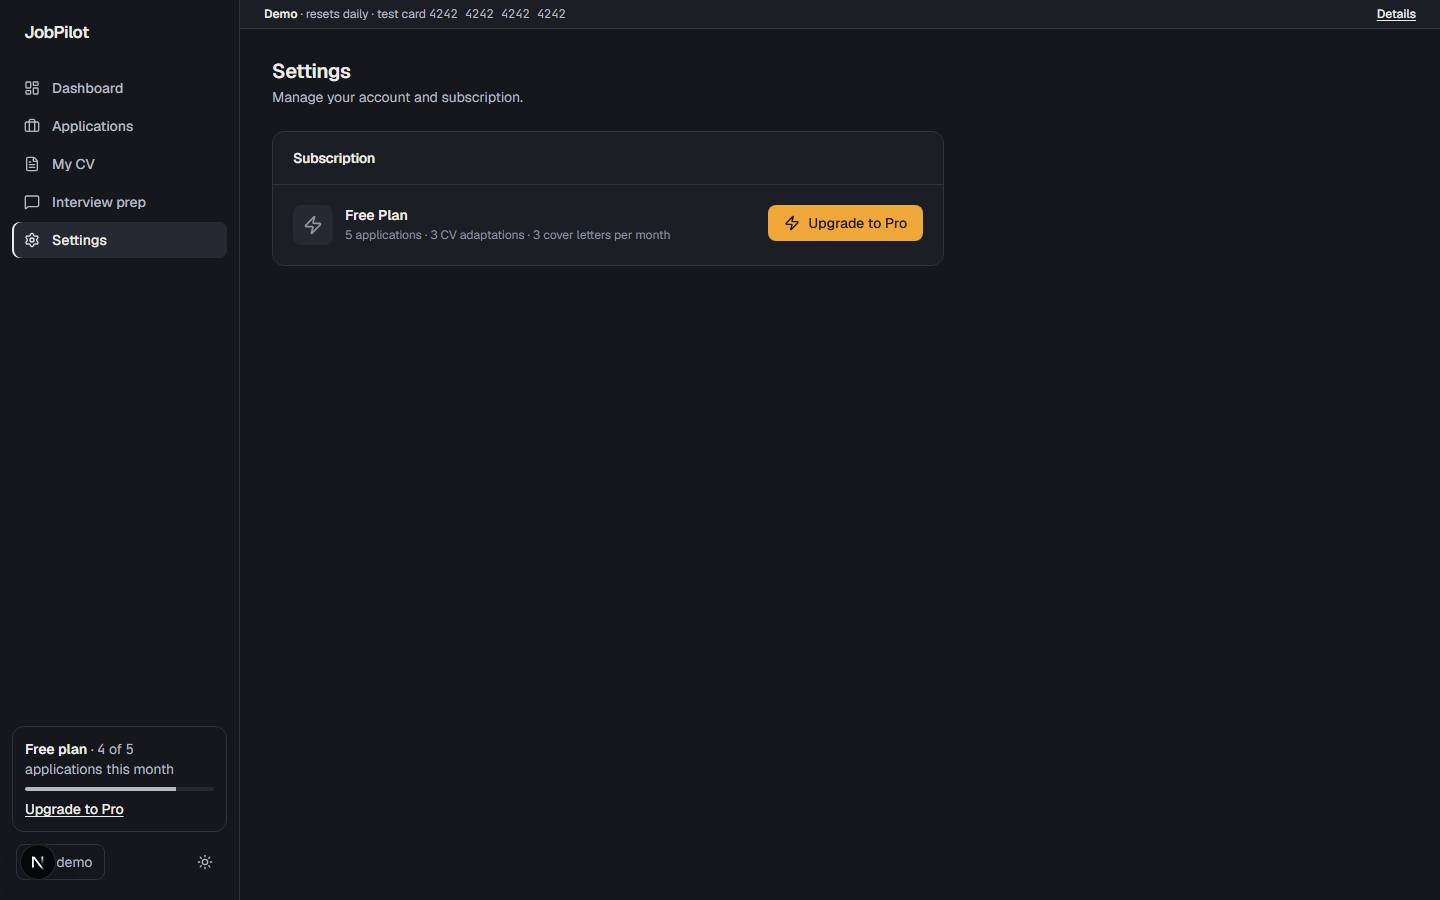
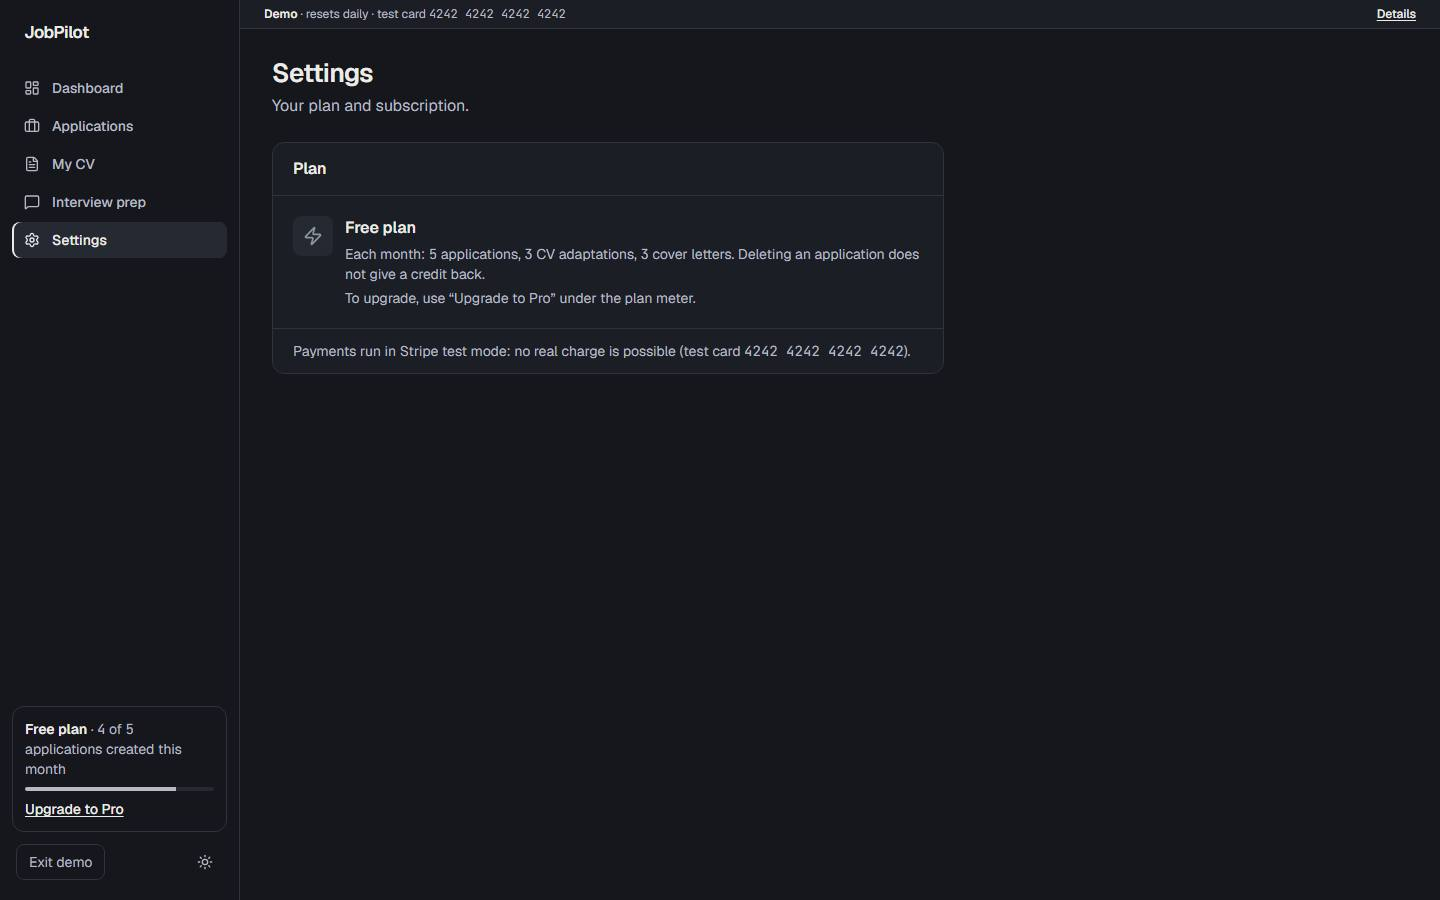
feat(design): settings and modals
Settings: the plan card says what the free plan includes and that deleting
an application gives no credit back; its own upgrade button is gone (the
plan meter stays the only upgrade call); "Payments run in Stripe test
mode" shows only while the Stripe key is a test key. Modals: token colours,
neutral "Auto-filled" badges.

diff --git a/src/components/applications/new-application-modal.tsx b/src/components/applications/new-application-modal.tsx
@@ -183,7 +183,7 @@ export function NewApplicationModal({
               value={offerText}
               onChange={e => setOfferText(e.target.value)}
               required
-              className="w-full h-40 field-sizing-fixed resize-none overflow-y-auto bg-[hsl(var(--bg-surface-raised))] border border-[hsl(var(--border-default))] text-[hsl(var(--text-primary))] placeholder:text-[hsl(var(--text-muted))] rounded-lg focus-visible:ring-1 focus-visible:ring-amber-500/60 focus-visible:border-[hsl(var(--border-default))]"
+              className="w-full h-40 field-sizing-fixed resize-none overflow-y-auto bg-[hsl(var(--bg-surface-raised))] border border-[hsl(var(--border-default))] text-[hsl(var(--text-primary))] placeholder:text-[hsl(var(--text-muted))] rounded-lg focus-visible:ring-1 focus-visible:ring-[hsl(var(--focus))] focus-visible:border-[hsl(var(--border-default))]"
             />
             <div className="mt-1.5 flex items-center gap-2">
               {detectedLang && (
@@ -216,14 +216,14 @@ export function NewApplicationModal({
                 value={company}
                 onChange={e => { setCompany(e.target.value); setAutoFilled(a => ({ ...a, company: false })) }}
                 required
-                className="bg-[hsl(var(--bg-surface-raised))] border border-[hsl(var(--border-default))] text-[hsl(var(--text-primary))] placeholder:text-[hsl(var(--text-muted))] rounded-lg focus-visible:ring-1 focus-visible:ring-amber-500/60 focus-visible:border-[hsl(var(--border-default))] pr-8"
+                className="bg-[hsl(var(--bg-surface-raised))] border border-[hsl(var(--border-default))] text-[hsl(var(--text-primary))] placeholder:text-[hsl(var(--text-muted))] rounded-lg focus-visible:ring-1 focus-visible:ring-[hsl(var(--focus))] focus-visible:border-[hsl(var(--border-default))] pr-8"
               />
               {parsing && !company && (
                 <Loader2 className="absolute right-2.5 top-1/2 -translate-y-1/2 h-3.5 w-3.5 animate-spin text-[hsl(var(--text-muted))]" />
               )}
               {autoFilled.company && company && (
-                <span className="absolute -top-1.5 right-1.5 text-[9px] font-semibold uppercase tracking-wide px-1 py-0.5 rounded bg-amber-500/20 text-amber-500 leading-none">
-                  Auto
+                <span className="absolute -top-1.5 right-1.5 text-[10px] font-medium px-1 py-0.5 rounded bg-[hsl(var(--bg-surface-raised))] text-[hsl(var(--text-secondary))] leading-none">
+                  Auto-filled
                 </span>
               )}
             </div>
@@ -235,14 +235,14 @@ export function NewApplicationModal({
                 value={role}
                 onChange={e => { setRole(e.target.value); setAutoFilled(a => ({ ...a, role: false })) }}
                 required
-                className="bg-[hsl(var(--bg-surface-raised))] border border-[hsl(var(--border-default))] text-[hsl(var(--text-primary))] placeholder:text-[hsl(var(--text-muted))] rounded-lg focus-visible:ring-1 focus-visible:ring-amber-500/60 focus-visible:border-[hsl(var(--border-default))] pr-8"
+                className="bg-[hsl(var(--bg-surface-raised))] border border-[hsl(var(--border-default))] text-[hsl(var(--text-primary))] placeholder:text-[hsl(var(--text-muted))] rounded-lg focus-visible:ring-1 focus-visible:ring-[hsl(var(--focus))] focus-visible:border-[hsl(var(--border-default))] pr-8"
               />
               {parsing && !role && (
                 <Loader2 className="absolute right-2.5 top-1/2 -translate-y-1/2 h-3.5 w-3.5 animate-spin text-[hsl(var(--text-muted))]" />
               )}
               {autoFilled.role && role && (
-                <span className="absolute -top-1.5 right-1.5 text-[9px] font-semibold uppercase tracking-wide px-1 py-0.5 rounded bg-amber-500/20 text-amber-500 leading-none">
-                  Auto
+                <span className="absolute -top-1.5 right-1.5 text-[10px] font-medium px-1 py-0.5 rounded bg-[hsl(var(--bg-surface-raised))] text-[hsl(var(--text-secondary))] leading-none">
+                  Auto-filled
                 </span>
               )}
             </div>
@@ -253,7 +253,7 @@ export function NewApplicationModal({
             value={link}
             onChange={e => setLink(e.target.value)}
             type="url"
-            className="bg-[hsl(var(--bg-surface-raised))] border border-[hsl(var(--border-default))] text-[hsl(var(--text-primary))] placeholder:text-[hsl(var(--text-muted))] rounded-lg focus-visible:ring-1 focus-visible:ring-amber-500/60 focus-visible:border-[hsl(var(--border-default))]"
+            className="bg-[hsl(var(--bg-surface-raised))] border border-[hsl(var(--border-default))] text-[hsl(var(--text-primary))] placeholder:text-[hsl(var(--text-muted))] rounded-lg focus-visible:ring-1 focus-visible:ring-[hsl(var(--focus))] focus-visible:border-[hsl(var(--border-default))]"
           />
 
           {/* Salary field */}
@@ -262,11 +262,11 @@ export function NewApplicationModal({
               placeholder="Salary (optional, e.g. $80k)"
               value={salary}
               onChange={e => { setSalary(e.target.value); setAutoFilled(a => ({ ...a, salary: false })) }}
-              className="bg-[hsl(var(--bg-surface-raised))] border border-[hsl(var(--border-default))] text-[hsl(var(--text-primary))] placeholder:text-[hsl(var(--text-muted))] rounded-lg focus-visible:ring-1 focus-visible:ring-amber-500/60 focus-visible:border-[hsl(var(--border-default))] pr-8"
+              className="bg-[hsl(var(--bg-surface-raised))] border border-[hsl(var(--border-default))] text-[hsl(var(--text-primary))] placeholder:text-[hsl(var(--text-muted))] rounded-lg focus-visible:ring-1 focus-visible:ring-[hsl(var(--focus))] focus-visible:border-[hsl(var(--border-default))] pr-8"
             />
             {autoFilled.salary && salary && (
-              <span className="absolute -top-1.5 right-1.5 text-[9px] font-semibold uppercase tracking-wide px-1 py-0.5 rounded bg-amber-500/20 text-amber-500 leading-none">
-                Auto
+              <span className="absolute -top-1.5 right-1.5 text-[10px] font-medium px-1 py-0.5 rounded bg-[hsl(var(--bg-surface-raised))] text-[hsl(var(--text-secondary))] leading-none">
+                Auto-filled
               </span>
             )}
           </div>
@@ -289,7 +289,7 @@ export function NewApplicationModal({
             <Button
               type="submit"
               disabled={loading}
-              className="rounded-lg bg-amber-500 text-black hover:bg-amber-400 font-medium"
+              className="rounded-lg bg-[hsl(var(--accent-primary))] text-[hsl(var(--accent-on))] hover:bg-[hsl(var(--accent-hover))] font-medium"
             >
               {loading ? 'Creating...' : 'Create Application'}
             </Button>

diff --git a/src/app/(app)/settings/page.tsx b/src/app/(app)/settings/page.tsx
@@ -1,89 +1,88 @@
 import type { Metadata } from 'next'
-import { getActor } from '@/lib/actor'
 import { redirect } from 'next/navigation'
-import { Zap, Crown, CreditCard } from 'lucide-react'
+import { CreditCard, Crown, Zap } from 'lucide-react'
+import { getActor } from '@/lib/actor'
+import { billing } from '@/lib/billing'
+import { FREE_TIER_LIMITS } from '@/lib/config'
+import { prisma } from '@/lib/prisma'
+import { ManageSubscriptionButton } from '@/components/manage-subscription-button'
 
 export const metadata: Metadata = {
   title: 'Settings',
 }
-import { prisma } from '@/lib/prisma'
-import { UpgradeButton } from '@/components/upgrade-button'
-import { ManageSubscriptionButton } from '@/components/manage-subscription-button'
 
 export default async function SettingsPage() {
   const actor = await getActor()
   if (!actor) redirect('/sign-in')
-  const userId = actor.id
 
   const dbUser = await prisma.user.findUnique({
-    where: { id: userId },
-    select: { plan: true, email: true, stripeCustomerId: true },
+    where: { id: actor.id },
+    select: { plan: true },
   })
-
-  const plan = dbUser?.plan ?? 'FREE'
-  const isPro = plan === 'PRO'
+  const isPro = dbUser?.plan === 'PRO'
+  // Said only when it is true: with live keys this line disappears.
+  const testMode = billing.isTestMode()
 
   return (
-    <div className="flex flex-col gap-6 max-w-2xl">
+    <div className="flex max-w-2xl flex-col gap-6">
       <div>
-        <h1 className="text-xl font-semibold text-[hsl(var(--text-primary))]">Settings</h1>
-        <p className="text-sm text-[hsl(var(--text-secondary))] mt-0.5">
-          Manage your account and subscription.
-        </p>
+        <h1 className="text-[26px] font-semibold leading-tight tracking-tight text-[hsl(var(--text-primary))]">Settings</h1>
+        <p className="mt-1 text-[hsl(var(--text-secondary))]">Your plan and subscription.</p>
       </div>
 
-      {/* Plan card */}
-      <div className="bg-[hsl(var(--bg-surface))] border border-[hsl(var(--border-default))] rounded-xl overflow-hidden">
-        <div className="px-5 py-4 border-b border-[hsl(var(--border-default))]">
-          <h2 className="text-sm font-semibold text-[hsl(var(--text-primary))]">Subscription</h2>
-        </div>
+      <section aria-labelledby="plan-title" className="overflow-hidden rounded-xl border border-[hsl(var(--border-default))] bg-[hsl(var(--bg-surface))]">
+        <h2 id="plan-title" className="border-b border-[hsl(var(--border-default))] px-5 py-3.5 text-base font-semibold text-[hsl(var(--text-primary))]">
+          Plan
+        </h2>
 
-        <div className="px-5 py-5 flex items-start justify-between gap-4">
+        <div className="flex flex-wrap items-start justify-between gap-4 px-5 py-5">
           <div className="flex items-start gap-3">
-            <div
-              className={`h-10 w-10 rounded-lg flex items-center justify-center shrink-0 ${
-                isPro ? 'bg-amber-500/20' : 'bg-[hsl(var(--bg-surface-raised))]'
-              }`}
-            >
+            <div className="flex h-10 w-10 shrink-0 items-center justify-center rounded-lg bg-[hsl(var(--bg-surface-raised))]">
               {isPro ? (
-                <Crown className="h-5 w-5 text-amber-500" />
+                <Crown className="h-5 w-5 text-[hsl(var(--text-primary))]" aria-hidden />
               ) : (
-                <Zap className="h-5 w-5 text-[hsl(var(--text-muted))]" />
+                <Zap className="h-5 w-5 text-[hsl(var(--text-muted))]" aria-hidden />
               )}
             </div>
-            <div>
-              <p className="text-sm font-semibold text-[hsl(var(--text-primary))]">
-                {isPro ? 'Pro Plan' : 'Free Plan'}
-              </p>
-              <p className="text-xs text-[hsl(var(--text-muted))] mt-0.5">
-                {isPro
-                  ? 'Unlimited applications, CV adaptations, and cover letters.'
-                  : '5 applications · 3 CV adaptations · 3 cover letters per month'}
-              </p>
+            <div className="grid gap-1">
+              <p className="font-semibold text-[hsl(var(--text-primary))]">{isPro ? 'Pro plan' : 'Free plan'}</p>
+              {isPro ? (
+                <p className="text-sm text-[hsl(var(--text-secondary))]">Unlimited applications, CV adaptations and cover letters.</p>
+              ) : (
+                <>
+                  <p className="text-sm text-[hsl(var(--text-secondary))]">
+                    Each month: <span className="num">{FREE_TIER_LIMITS.applications}</span> applications,{' '}
+                    <span className="num">{FREE_TIER_LIMITS.cvAdaptations}</span> CV adaptations,{' '}
+                    <span className="num">{FREE_TIER_LIMITS.coverLetters}</span> cover letters. Deleting an application does not give a credit back.
+                  </p>
+                  {/* The upgrade call itself stays in one place: the plan meter (sidebar, or "More" on mobile). */}
+                  <p className="text-sm text-[hsl(var(--text-secondary))]">To upgrade, use &ldquo;Upgrade to Pro&rdquo; under the plan meter.</p>
+                </>
+              )}
             </div>
           </div>
-
-          <div className="shrink-0">
-            {isPro ? (
+          {isPro ? (
+            <div className="shrink-0">
               <ManageSubscriptionButton />
-            ) : (
-              <UpgradeButton source="settings" className="w-auto px-4">
-                <Zap className="h-4 w-4" />
-                Upgrade to Pro
-              </UpgradeButton>
-            )}
-          </div>
+            </div>
+          ) : null}
         </div>
 
-        {isPro && (
+        {isPro ? (
           <div className="px-5 pb-5">
-            <div className="flex items-center gap-2 text-xs text-[hsl(var(--state-success))] bg-[hsl(var(--state-success-light))] rounded-lg px-3 py-2">
-              <CreditCard className="h-3.5 w-3.5 shrink-0" />
-              Active subscription — managed via Stripe Customer Portal
-            </div>
+            <p className="flex items-center gap-2 rounded-lg bg-[hsl(var(--state-success-light))] px-3 py-2 text-sm text-[hsl(var(--state-success))]">
+              <CreditCard className="h-4 w-4 shrink-0" aria-hidden />
+              Active subscription, managed in the Stripe customer portal.
+            </p>
           </div>
-        )}
-      </div>
+        ) : null}
+
+        {testMode ? (
+          <p className="border-t border-[hsl(var(--border-default))] px-5 py-3 text-sm text-[hsl(var(--text-secondary))]">
+            Payments run in Stripe test mode: no real charge is possible (test card <span className="num">4242 4242 4242 4242</span>).
+          </p>
+        ) : null}
+      </section>
     </div>
   )
 }

diff --git a/src/components/confirm-dialog.tsx b/src/components/confirm-dialog.tsx
@@ -65,7 +65,7 @@ export function useConfirm(): [(options: ConfirmOptions) => Promise<boolean>, Re
             className={
               options?.destructive
                 ? 'rounded-lg bg-red-600 text-white hover:bg-red-500 font-medium'
-                : 'rounded-lg bg-amber-500 text-black hover:bg-amber-400 font-medium'
+                : 'rounded-lg bg-[hsl(var(--accent-primary))] text-[hsl(var(--accent-on))] hover:bg-[hsl(var(--accent-hover))] font-medium'
             }
           >
             {options?.confirmLabel ?? 'Confirm'}
